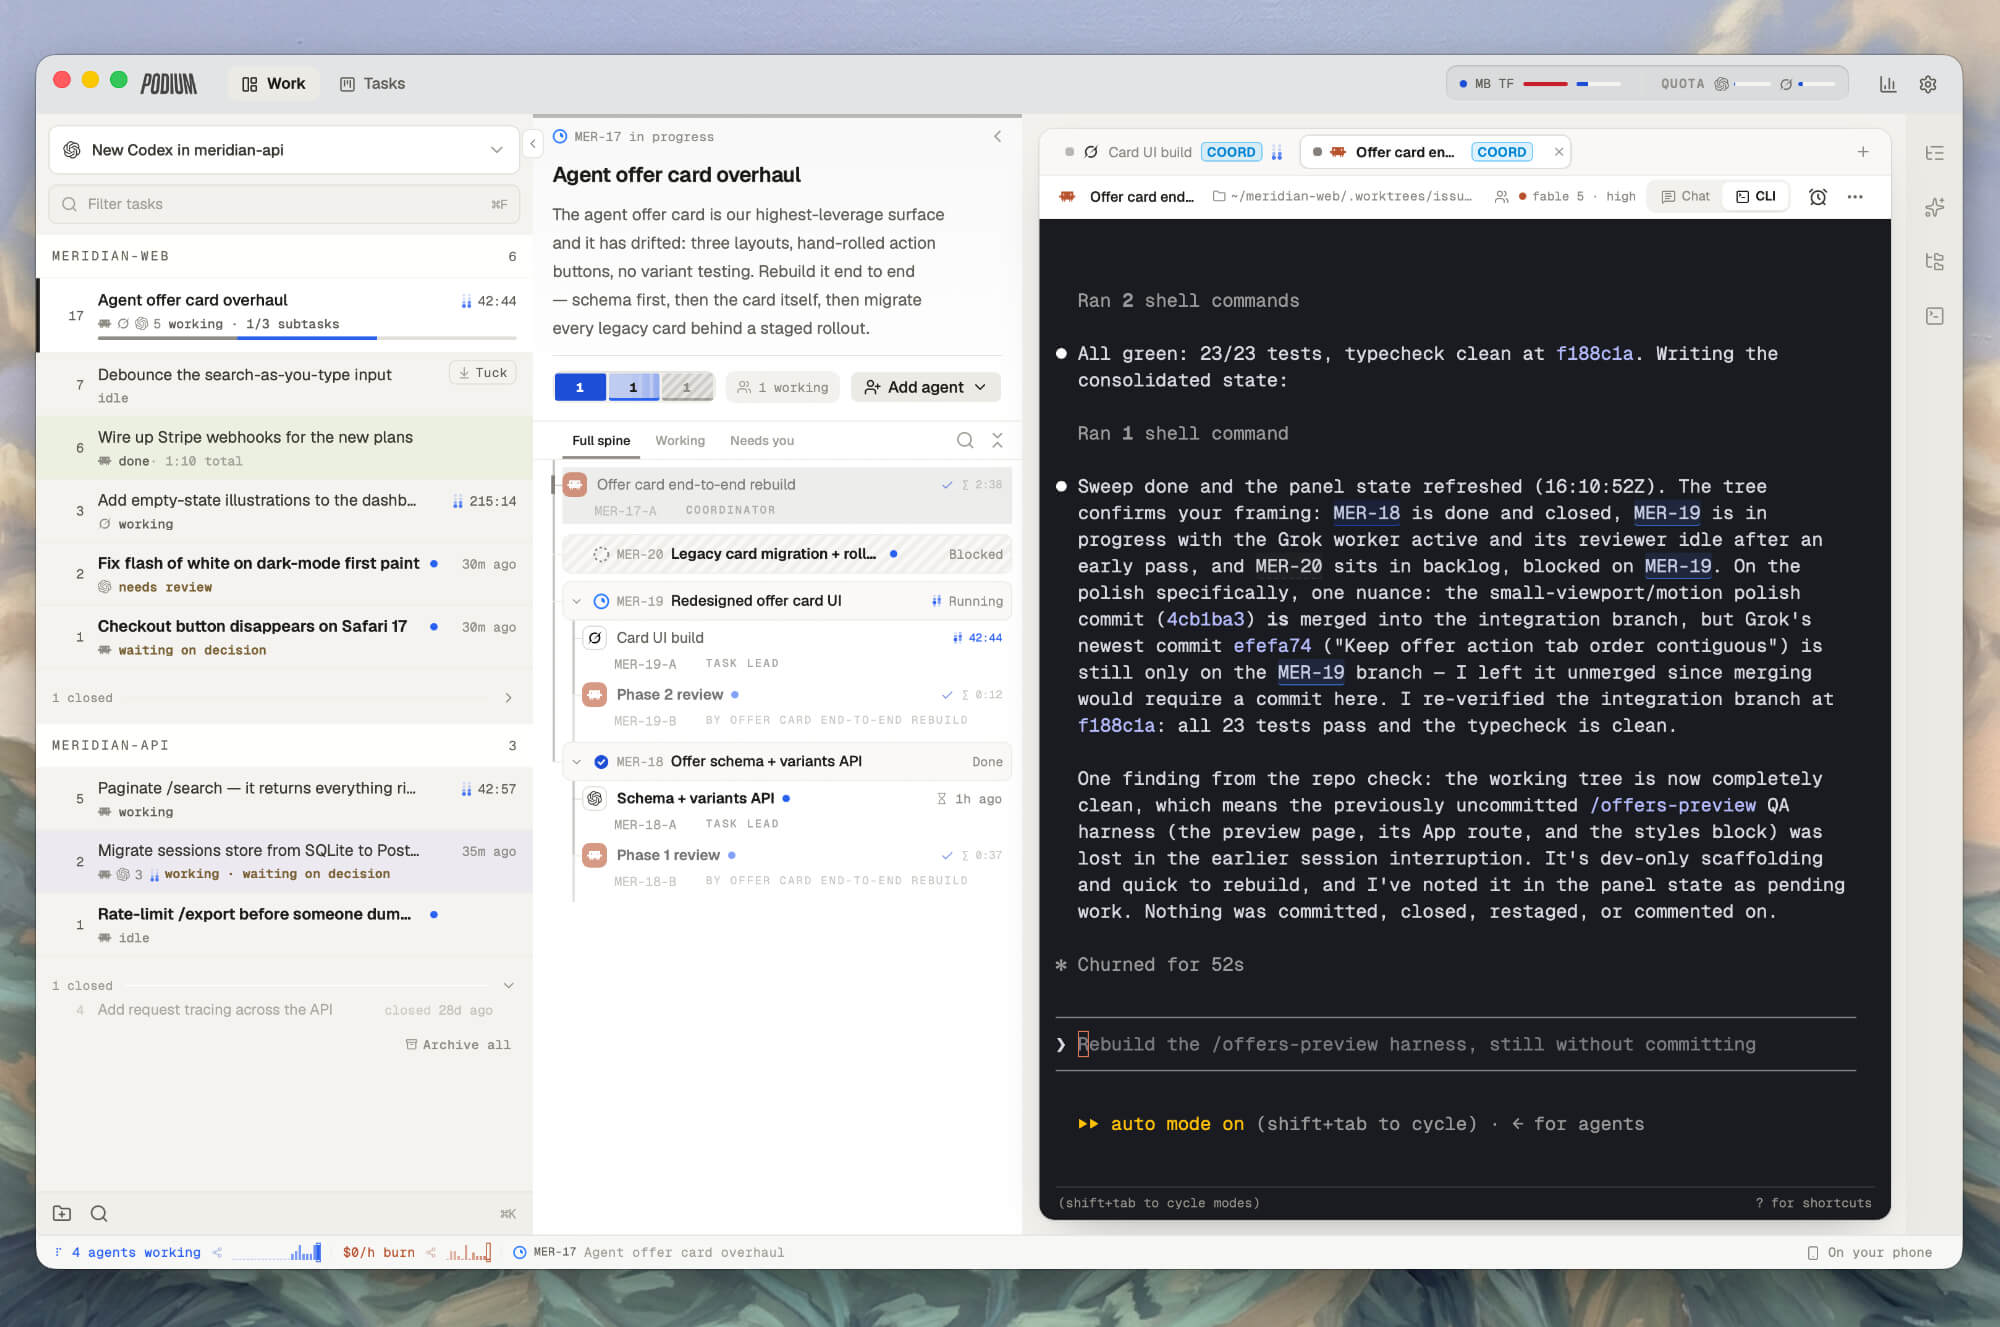
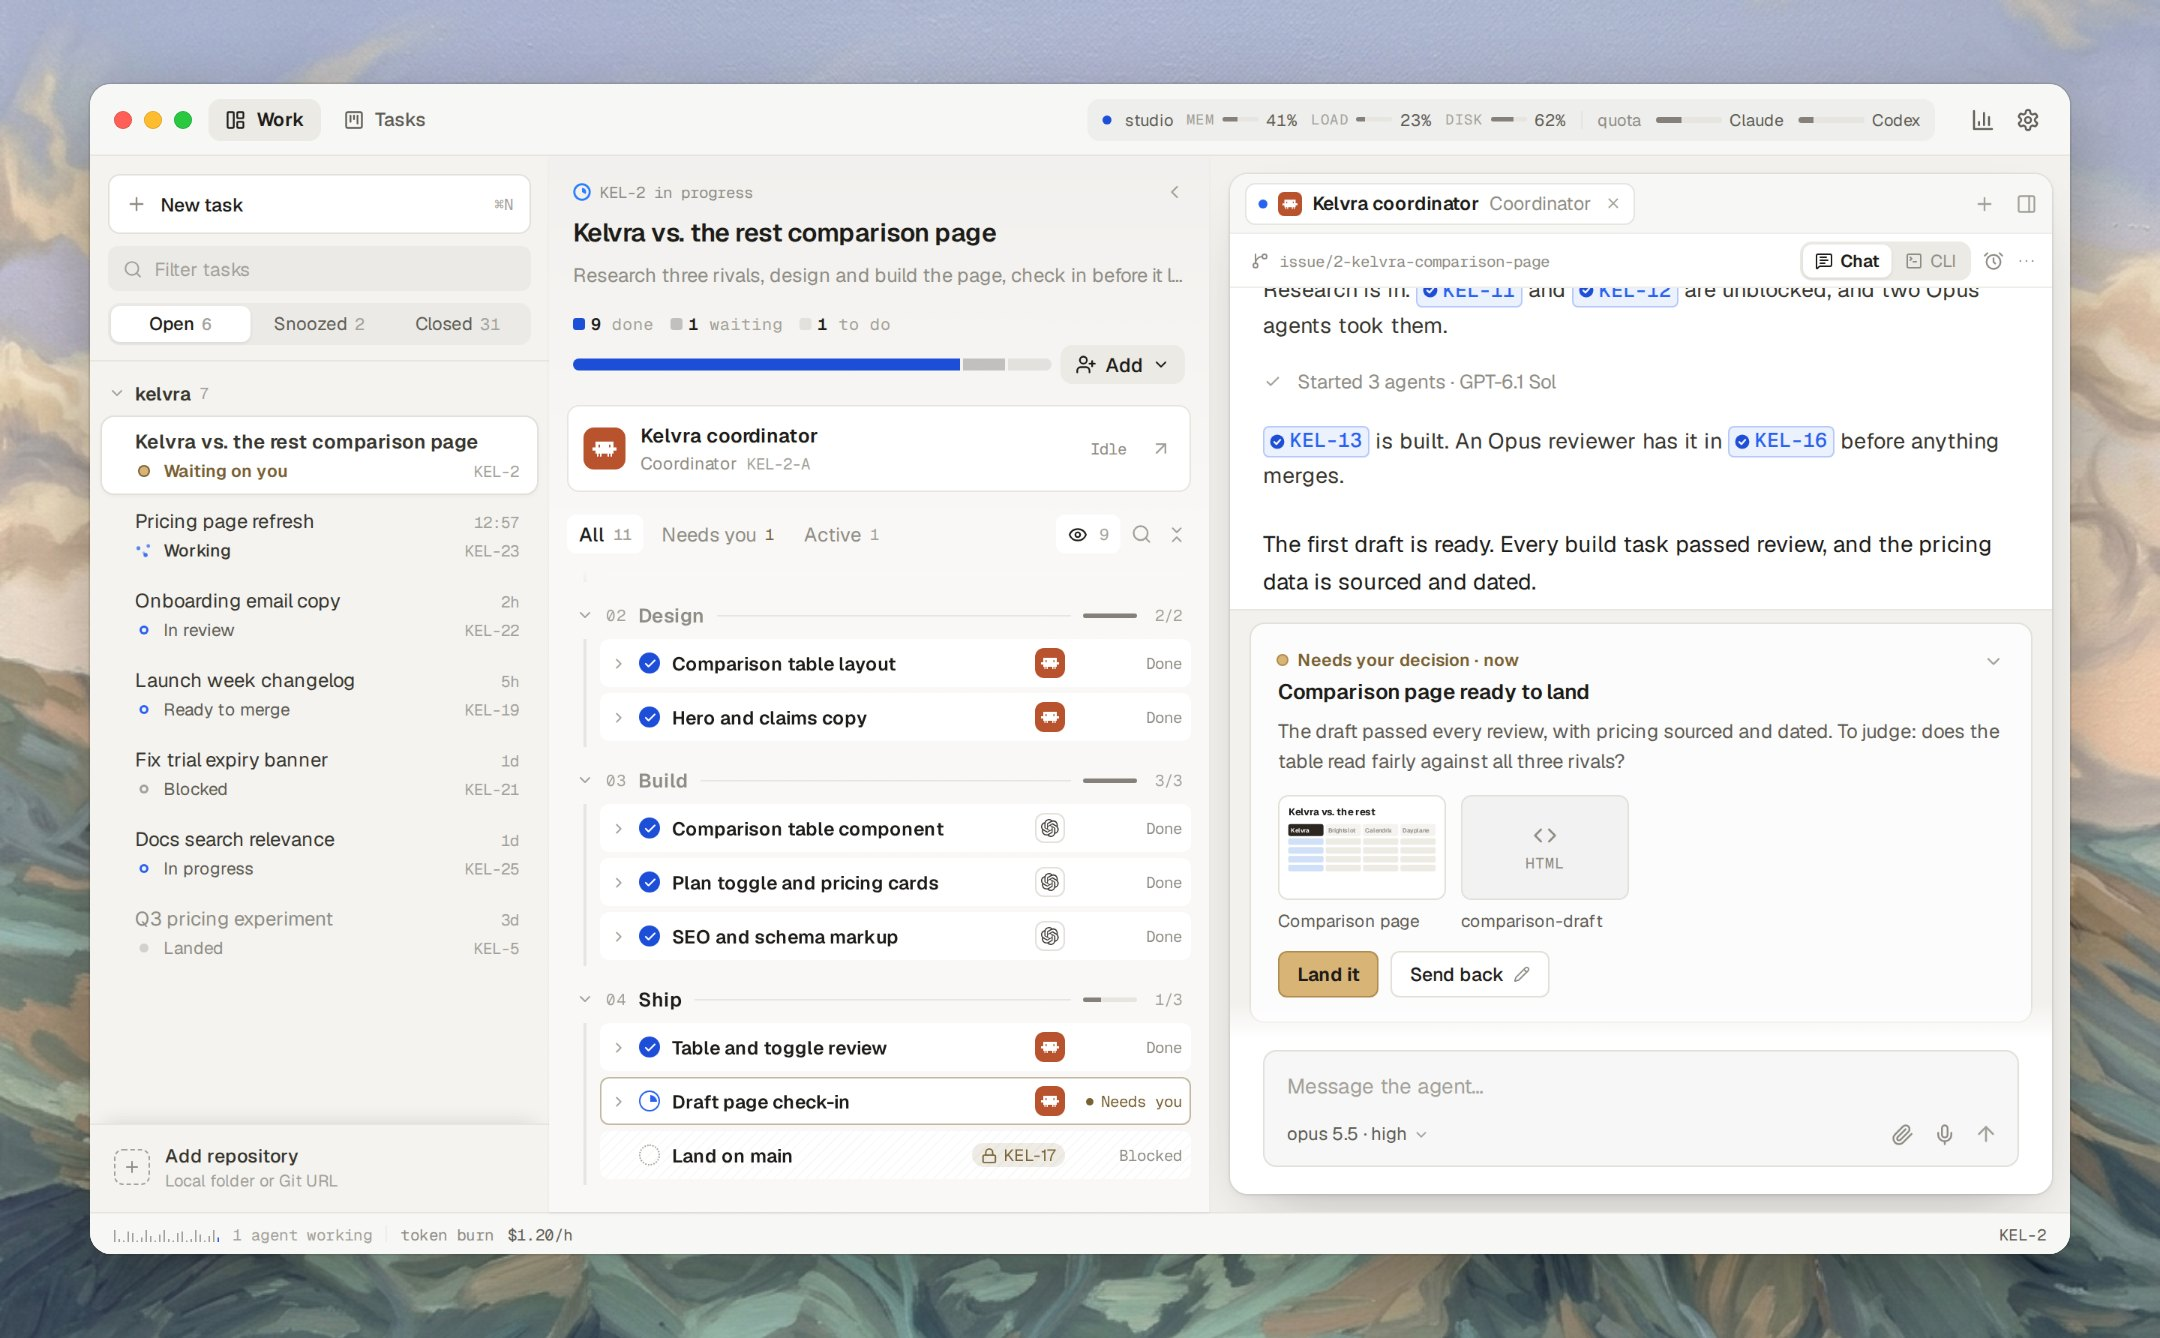
Bring the README images and copy up to 0.3
The screenshots predated the flight deck and still showed task colors. All
seven now show the 0.3 interface with the website's Kelvra project: the hero
and the flight deck, chat and offer images come from the site's port of the
app, the proposal is a capture, and the board is the real component on seeded
tasks. The provenance notes record each source.

The copy now says the Windows installer is experimental rather than coming
soon, lists Pi, calls the team view the flight deck, and mentions the iPhone
private beta.

Podium-Issue: POD-2358

diff --git a/README.md b/README.md
@@ -21,7 +21,7 @@
 </p>
 
 <p align="center">
-  <img src="docs/assets/readme-hero.jpg" alt="The full Podium desktop app: tasks across projects, a coordinated team of agents, and an agent's live terminal side by side" width="960">
+  <img src="docs/assets/readme-hero.jpg" alt="The Podium desktop app: the task list, a flight deck with phases and tasks, and a coordinator's chat asking for a decision before the work lands" width="960">
 </p>
 <p align="center"><sub>Your projects, their tasks, and the agents doing the work, all in one place.</sub></p>
 
@@ -29,7 +29,7 @@
 
 You have agents that can write code, investigate a problem, review an approach, and test the result. But someone still has to split up the job, pass along findings, explain dependencies, and remember what hasn't finished. Usually, that's you.
 
-Podium gives your agents a shared task system they can operate themselves. The agent you're talking to can become the coordinator: create subtasks, bring in other agents, link dependencies, and track their results. You see the same work in the board and team views, and can join any conversation along the way.
+Podium gives your agents a shared task system they can operate themselves. The agent you're talking to can become the coordinator: create subtasks, bring in other agents, link dependencies, and track their results. You see the same work on the board and the flight deck, and can join any conversation along the way.
 
 Start with a rough idea. Work out the approach together. Then give your agent a bigger job.
 
@@ -39,7 +39,7 @@ For a feature you've already discussed, try a prompt like this:
 
 > Act as the coordinator. Break this into phases and subtasks, and link their dependencies. Ask Claude Code to propose the architecture and Codex to review it. After we've agreed on the approach, delegate implementation into separate tasks that can run in parallel. Have Grok test the result against our original plan. Keep the tasks updated and bring decisions back to me.
 
-Pick the agents and models you want for each part. Podium supports cross-agent delegation and communication across Claude Code, Codex, Grok, OpenCode, and Cursor. Use the agents you've set up on your machines; their accounts and usage limits still apply.
+Pick the agents and models you want for each part. Podium supports cross-agent delegation and communication across Claude Code, Codex, Grok, OpenCode, Cursor, and Pi. Use the agents you've set up on your machines; their accounts and usage limits still apply.
 
 **Be explicit about coordination.** Ask for phases, subtasks, dependencies, and reviewers. Those instructions shape how the agent uses Podium's tools. You can change the plan in conversation as you learn more.
 
@@ -48,26 +48,26 @@ Pick the agents and models you want for each part. Podium supports cross-agent d
 <table>
   <tr>
     <td width="50%" valign="top">
-      <h3>See the whole team</h3>
-      <p>Follow the coordinator, parallel agents, and dependent tasks in one view. Open any conversation to join the work.</p>
-      <p align="center"><a href="docs/assets/readme/team-view.png"><img src="docs/assets/readme/team-view.png" alt="Flightdeck shows the coordinator, active agents, completed prerequisites, and blocked tasks" width="200"></a></p>
+      <h3>See the whole mission</h3>
+      <p>The flight deck shows every phase and task, who is working on what, what is blocked and by what, and what needs you. Done work stays in view.</p>
+      <a href="docs/assets/readme/team-view.png"><img src="docs/assets/readme/team-view.png" alt="The flight deck shows the coordinator, phases, running tasks, and lines from a task to the tasks it blocks" width="420"></a>
     </td>
     <td width="50%" valign="top">
       <h3>Shape the workflow as you talk</h3>
       <p>Discuss the approach, choose agents for different jobs, and change the plan. Your coordinator keeps the tasks connected.</p>
-      <a href="docs/assets/readme/coordinator-chat.png"><img src="docs/assets/readme/coordinator-chat.png" alt="A coordinator explains the updated tasks and dependencies after a developer changes the brief" width="420"></a>
+      <a href="docs/assets/readme/coordinator-chat.png"><img src="docs/assets/readme/coordinator-chat.png" alt="A coordinator answers a developer's question about two parallel tasks and who owns which files" width="420"></a>
     </td>
   </tr>
   <tr>
     <td width="50%" valign="top">
       <h3>Give new ideas somewhere to go</h3>
       <p>Capture your ideas in tasks. Agents also create proposals for improvements they discover while working. Review them, add them to the backlog, or start when you're ready.</p>
-      <a href="docs/assets/readme/proposed-task.png"><img src="docs/assets/readme/proposed-task.png" alt="An agent proposes a follow-up task, with options to add it to the backlog or run it now" width="420"></a>
+      <a href="docs/assets/readme/proposed-task.png"><img src="docs/assets/readme/proposed-task.png" alt="A task an agent proposed while writing a changelog, with a planned agent and a Start work button" width="420"></a>
     </td>
     <td width="50%" valign="top">
       <h3>Stay involved in the decisions</h3>
       <p>Ask for a comparison, inspect the evidence, and discuss the result. Agent offers keep the decision beside the work.</p>
-      <a href="docs/assets/readme/agent-offer.png"><img src="docs/assets/readme/agent-offer.png" alt="An agent offers a review decision with an HTML comparison and screenshot evidence attached" width="420"></a>
+      <a href="docs/assets/readme/agent-offer.png"><img src="docs/assets/readme/agent-offer.png" alt="An agent asks for a decision on a draft page, with screenshots and an HTML draft attached and buttons to approve or request changes" width="420"></a>
     </td>
   </tr>
 </table>
@@ -81,7 +81,7 @@ That gives coordination somewhere to live beyond a single conversation. A sessio
 Work is organized around tasks. Each issue can own its branch and workspace, with several agents contributing to it. Separate implementation tasks can have separate workspaces; agents sharing one workspace still need clear ownership of their changes.
 
 <p align="center">
-  <img src="docs/assets/readme/task-board-framed.png" alt="Podium's board shows an epic and its subtasks across backlog, planning, in progress, and review, with active agents and dependency indicators" width="100%">
+  <img src="docs/assets/readme/task-board-framed.png" alt="Podium's board shows tasks from proposed through backlog, planning, in progress, and review, with an epic's progress, active agents, and blocked tasks" width="100%">
 </p>
 <p align="center"><sub>The same project, seen across tasks. Agents' work and dependencies stay visible as the effort grows.</sub></p>
 
@@ -93,7 +93,7 @@ We could discuss the approach and follow the work without manually handing every
 
 ## Give your agents a machine of their own
 
-Run locally or install Podium on your own VPS. Agents on that server can keep working when your laptop is off. Reconnect from your desktop, browser, or phone.
+Run locally or install Podium on your own VPS. Agents on that server can keep working when your laptop is off. Reconnect from your desktop or any browser, including on your phone.
 
 [Set up your own server →](#run-on-your-own-vps)
 
@@ -107,7 +107,7 @@ See the [update guide](https://podium.do/docs/guides/update-backup) for stable a
 
 **[Download Podium →](https://podium.do/download)**
 
-The download page picks the build for your machine. macOS is supported on Apple silicon and Intel; the Linux desktop AppImage is experimental, and Windows is coming soon. See the [installation guide](https://podium.do/docs/getting-started/install) for details.
+The download page picks the build for your machine. macOS is supported on Apple silicon and Intel; the Linux AppImage and the Windows installer are experimental. See the [installation guide](https://podium.do/docs/getting-started/install) for details.
 
 Open Podium, set up the coding agents you want to use, and start with a repository and a task. You can begin with one agent, then ask it to coordinate a larger effort when you're ready.
 
@@ -121,7 +121,7 @@ curl -fsSL https://podium.do/install.sh | sh
 
 Follow the setup prompts. If setup didn't run during installation, run `podium setup`. Run `podium` to start the instance; it prints the browser URL. If your shell doesn't yet find the command, open a new login shell so the installer's PATH change takes effect.
 
-The [installation and networking guide](https://podium.do/docs/getting-started/install) covers remote access through Tailscale, Cloudflare, or your own reverse proxy. Connect from the desktop app or a browser, including your phone's browser.
+The [installation and networking guide](https://podium.do/docs/getting-started/install) covers remote access through Tailscale, Cloudflare, or your own reverse proxy. Connect from the desktop app or a browser, including your phone's browser. A native iPhone app is in private beta.
 
 To add another machine, copy the pairing command from **Settings → Machines → Add machine** and run it there. Choose where your agents work while keeping the task system in one place.
 

diff --git a/docs/assets/readme/README.md b/docs/assets/readme/README.md
@@ -1,28 +1,34 @@
 # README product images
 
-The original capture files are unchanged copies of the illustrative Acme Launch project captures published on
-the Podium website, retrieved on 2026-09-23. They show development UI, not a guarantee of
-feature availability in the latest stable release. This file records the capture and composition provenance.
+These images show the illustrative Kelvra project that the Podium website also uses, refreshed on
+2026-11-06 for the 0.3 interface. Kelvra is fictional. The images may show development UI, not a
+guarantee of feature availability in the latest stable release. This file records where each one
+came from.
 
-| Local file | Published source |
+| Local file | Source |
 | --- | --- |
-| `team-view.png` | https://podium.do/marketing/captures/flightdeck.png |
-| `coordinator-chat.png` | https://podium.do/marketing/captures/chat.png |
-| `task-board.png` | https://podium.do/marketing/captures/board.png |
+| `team-view.png` | Unchanged copy of the website's `marketing/captures/compare-blockers.png` |
+| `coordinator-chat.png` | Unchanged copy of the website's `marketing/captures/compare-chat.png` |
+| `agent-offer.png` | Unchanged copy of the website's `marketing/captures/compare-offer.png` |
+| `proposed-task.png` | Unchanged copy of https://podium.do/marketing/captures/proposals.png |
+| `task-board.png` | Real `IssuesView` rendered at 1522 × 520, scale 2, from a throwaway copy of `apps/web/harness/issue-board.browser.tsx` seeded with Kelvra tasks. The harness toolbar buttons are hidden. |
 
-Store replacements here so GitHub and cloned copies do not depend on the website's asset
-URLs. Prefer readable task and conversation views that demonstrate the same project.
+The first three are rendered from the website's HTML port of the app, not captured from a running
+instance. `proposed-task.png` is a capture from an isolated instance.
 
-## Additional assets
+Store replacements here so GitHub and cloned copies do not depend on the website's asset URLs.
+Prefer readable task and conversation views that demonstrate the same project.
 
-- `proposed-task.png`: unchanged https://podium.do/marketing/captures/proposals.png capture.
-- `agent-offer.png`: unchanged https://podium.do/marketing/captures/offers.png capture.
-- `task-board-framed.png`: AI-assisted illustrative composition, generated with the built-in
-  image-editing tool from `task-board.png`, Till's supplied `artistic_bg_foto_tf.jpg`, and the
-  existing `../readme-hero.jpg` as a framing reference. This is not a pixel-exact raw capture;
-  retain `task-board.png` as the original.
+## Composed images
 
-Composition prompt: Place the entire task-board screenshot flat and centered over the supplied
-mountain painting, with narrow margins, rounded outer corners and a soft shadow matching the
-existing hero. Preserve UI text, layout, cards, colors and proportions; add no window chrome or
-captions. Landscape, high-resolution output. The built-in image tool was used, not the CLI fallback.
+- `../readme-hero.jpg`: the website's hero story (`apps/site/src/components/hero-story`) rendered
+  with its `shell` prop for the full desktop window, 1320 × 780 at scale 2 with reduced motion. The
+  website's "Your call. Land it." hint is hidden, task refs in the list are changed so they match
+  the board, one list title is changed to "Launch week changelog", and the status strip says one
+  agent is working. It sits on the site's `apps/site/src/assets/hero/painting.jpg` with window
+  controls added.
+- `task-board-framed.png`: `task-board.png` on the same painting. This replaces the earlier
+  AI-assisted composition.
+
+`distribution/SUBMISSIONS.md` names `readme-hero.jpg` and `task-board-framed.png`, so keep those
+filenames when replacing them.
